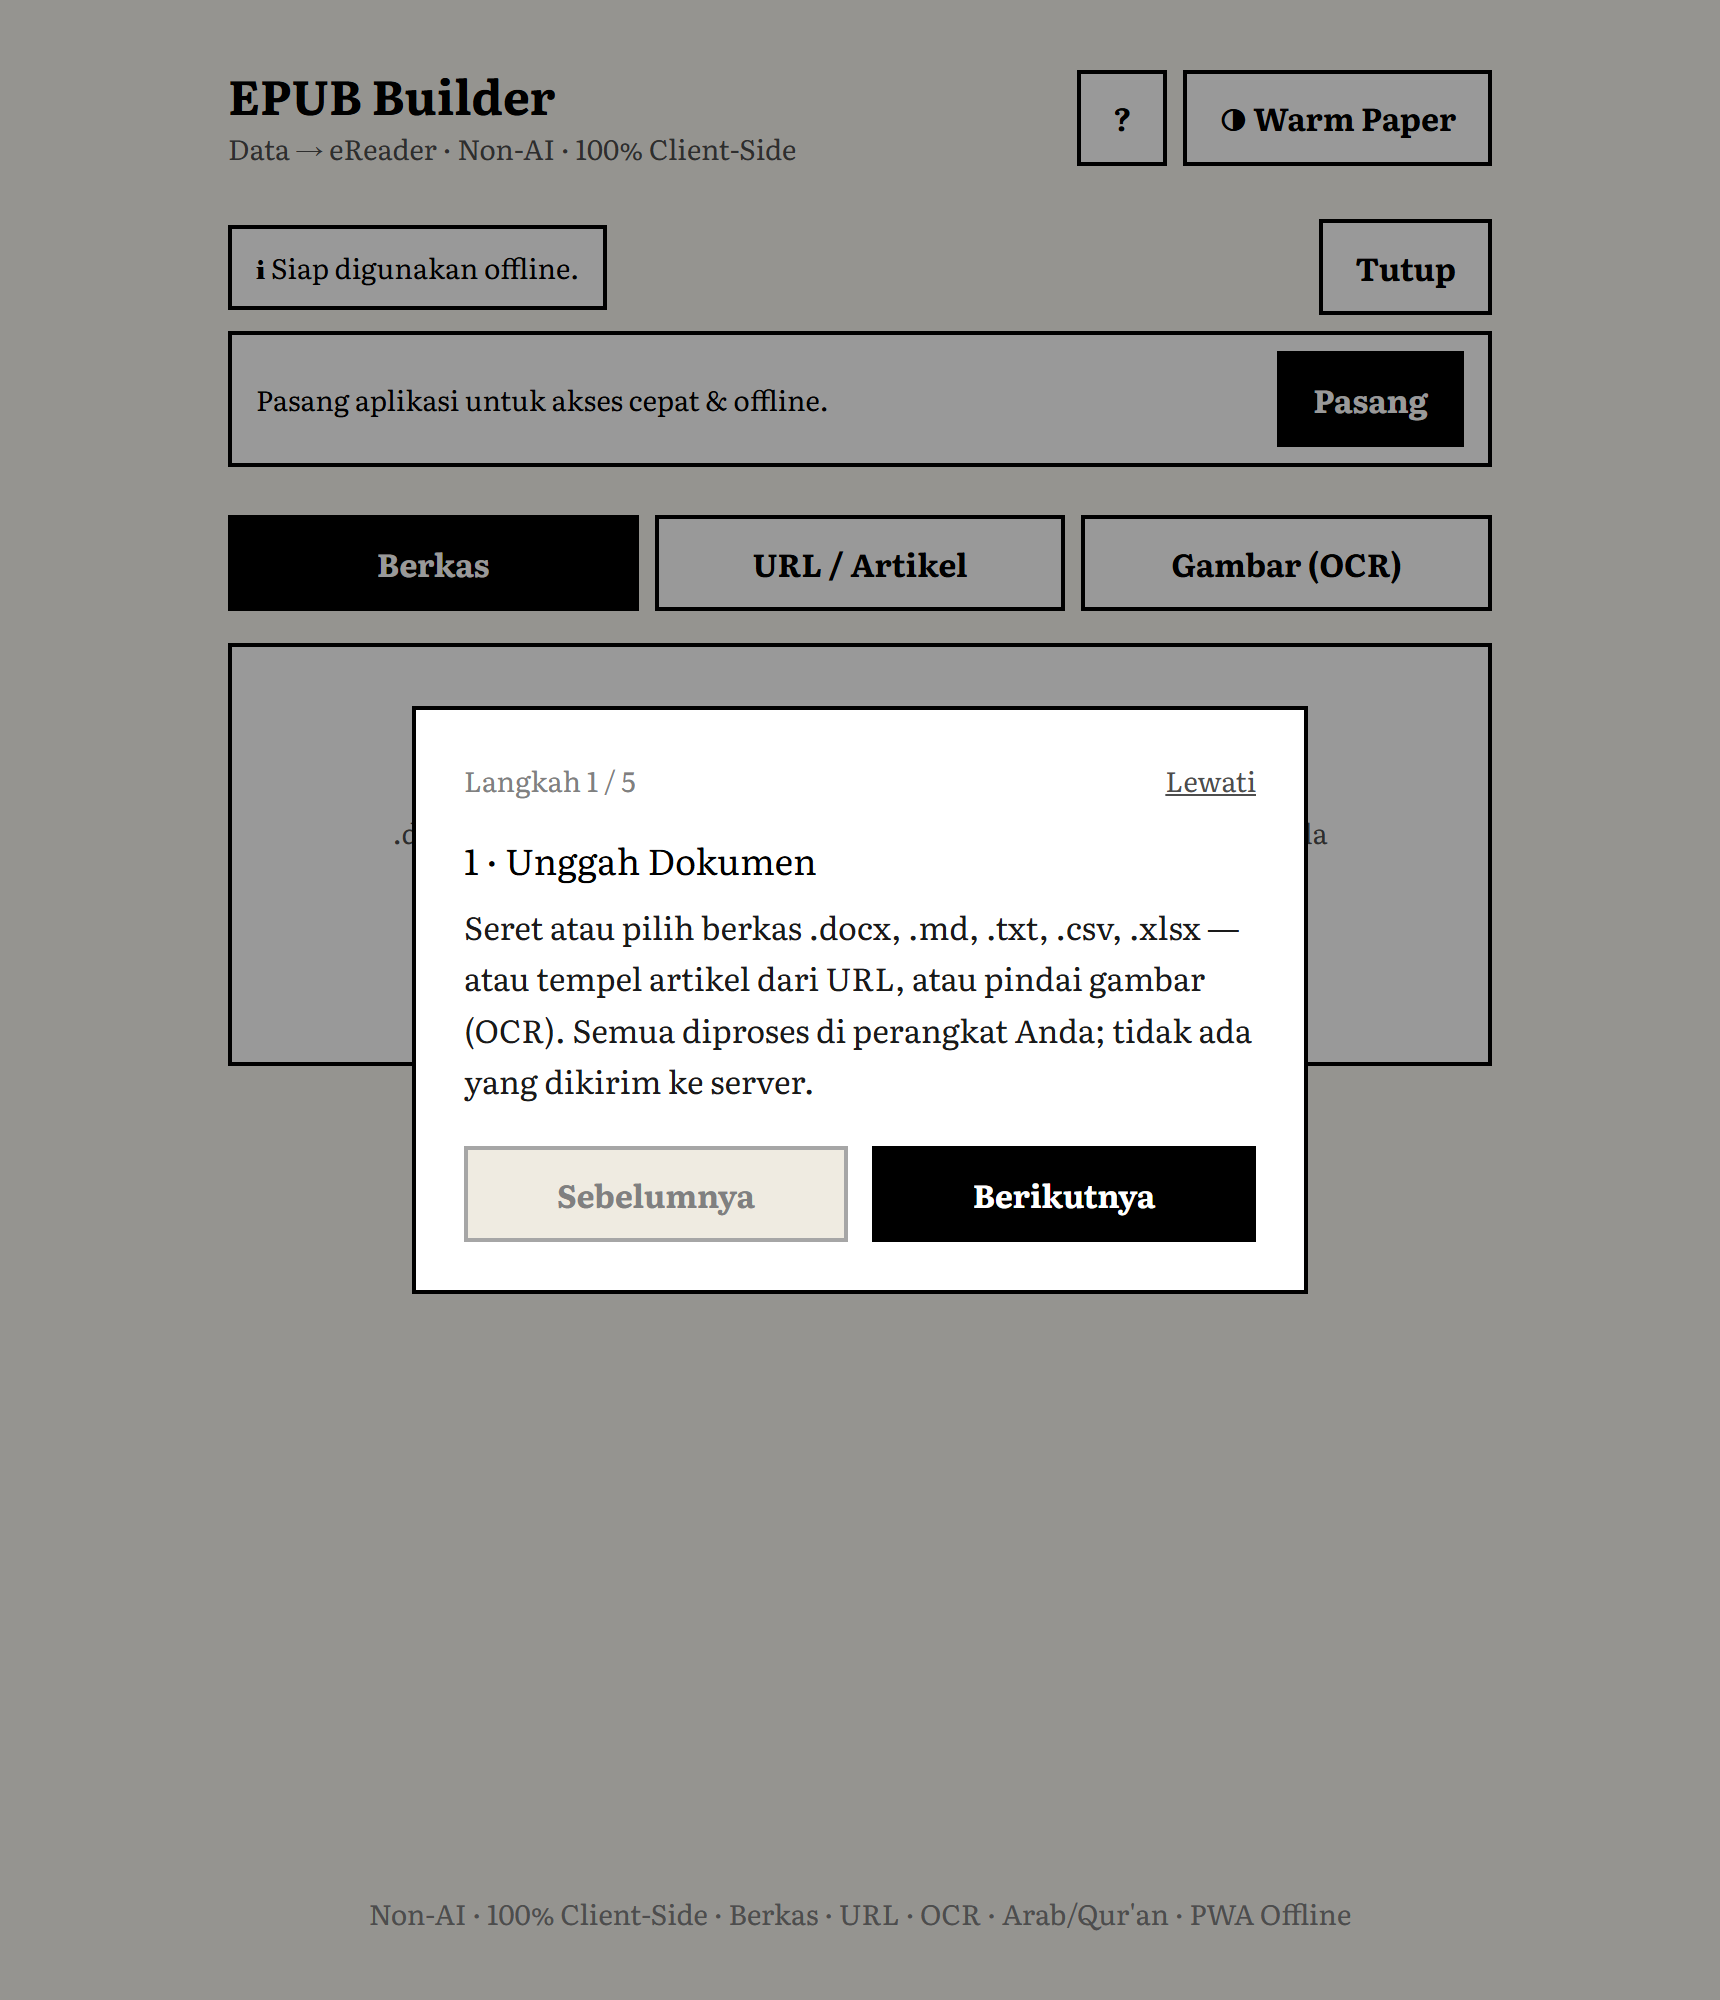
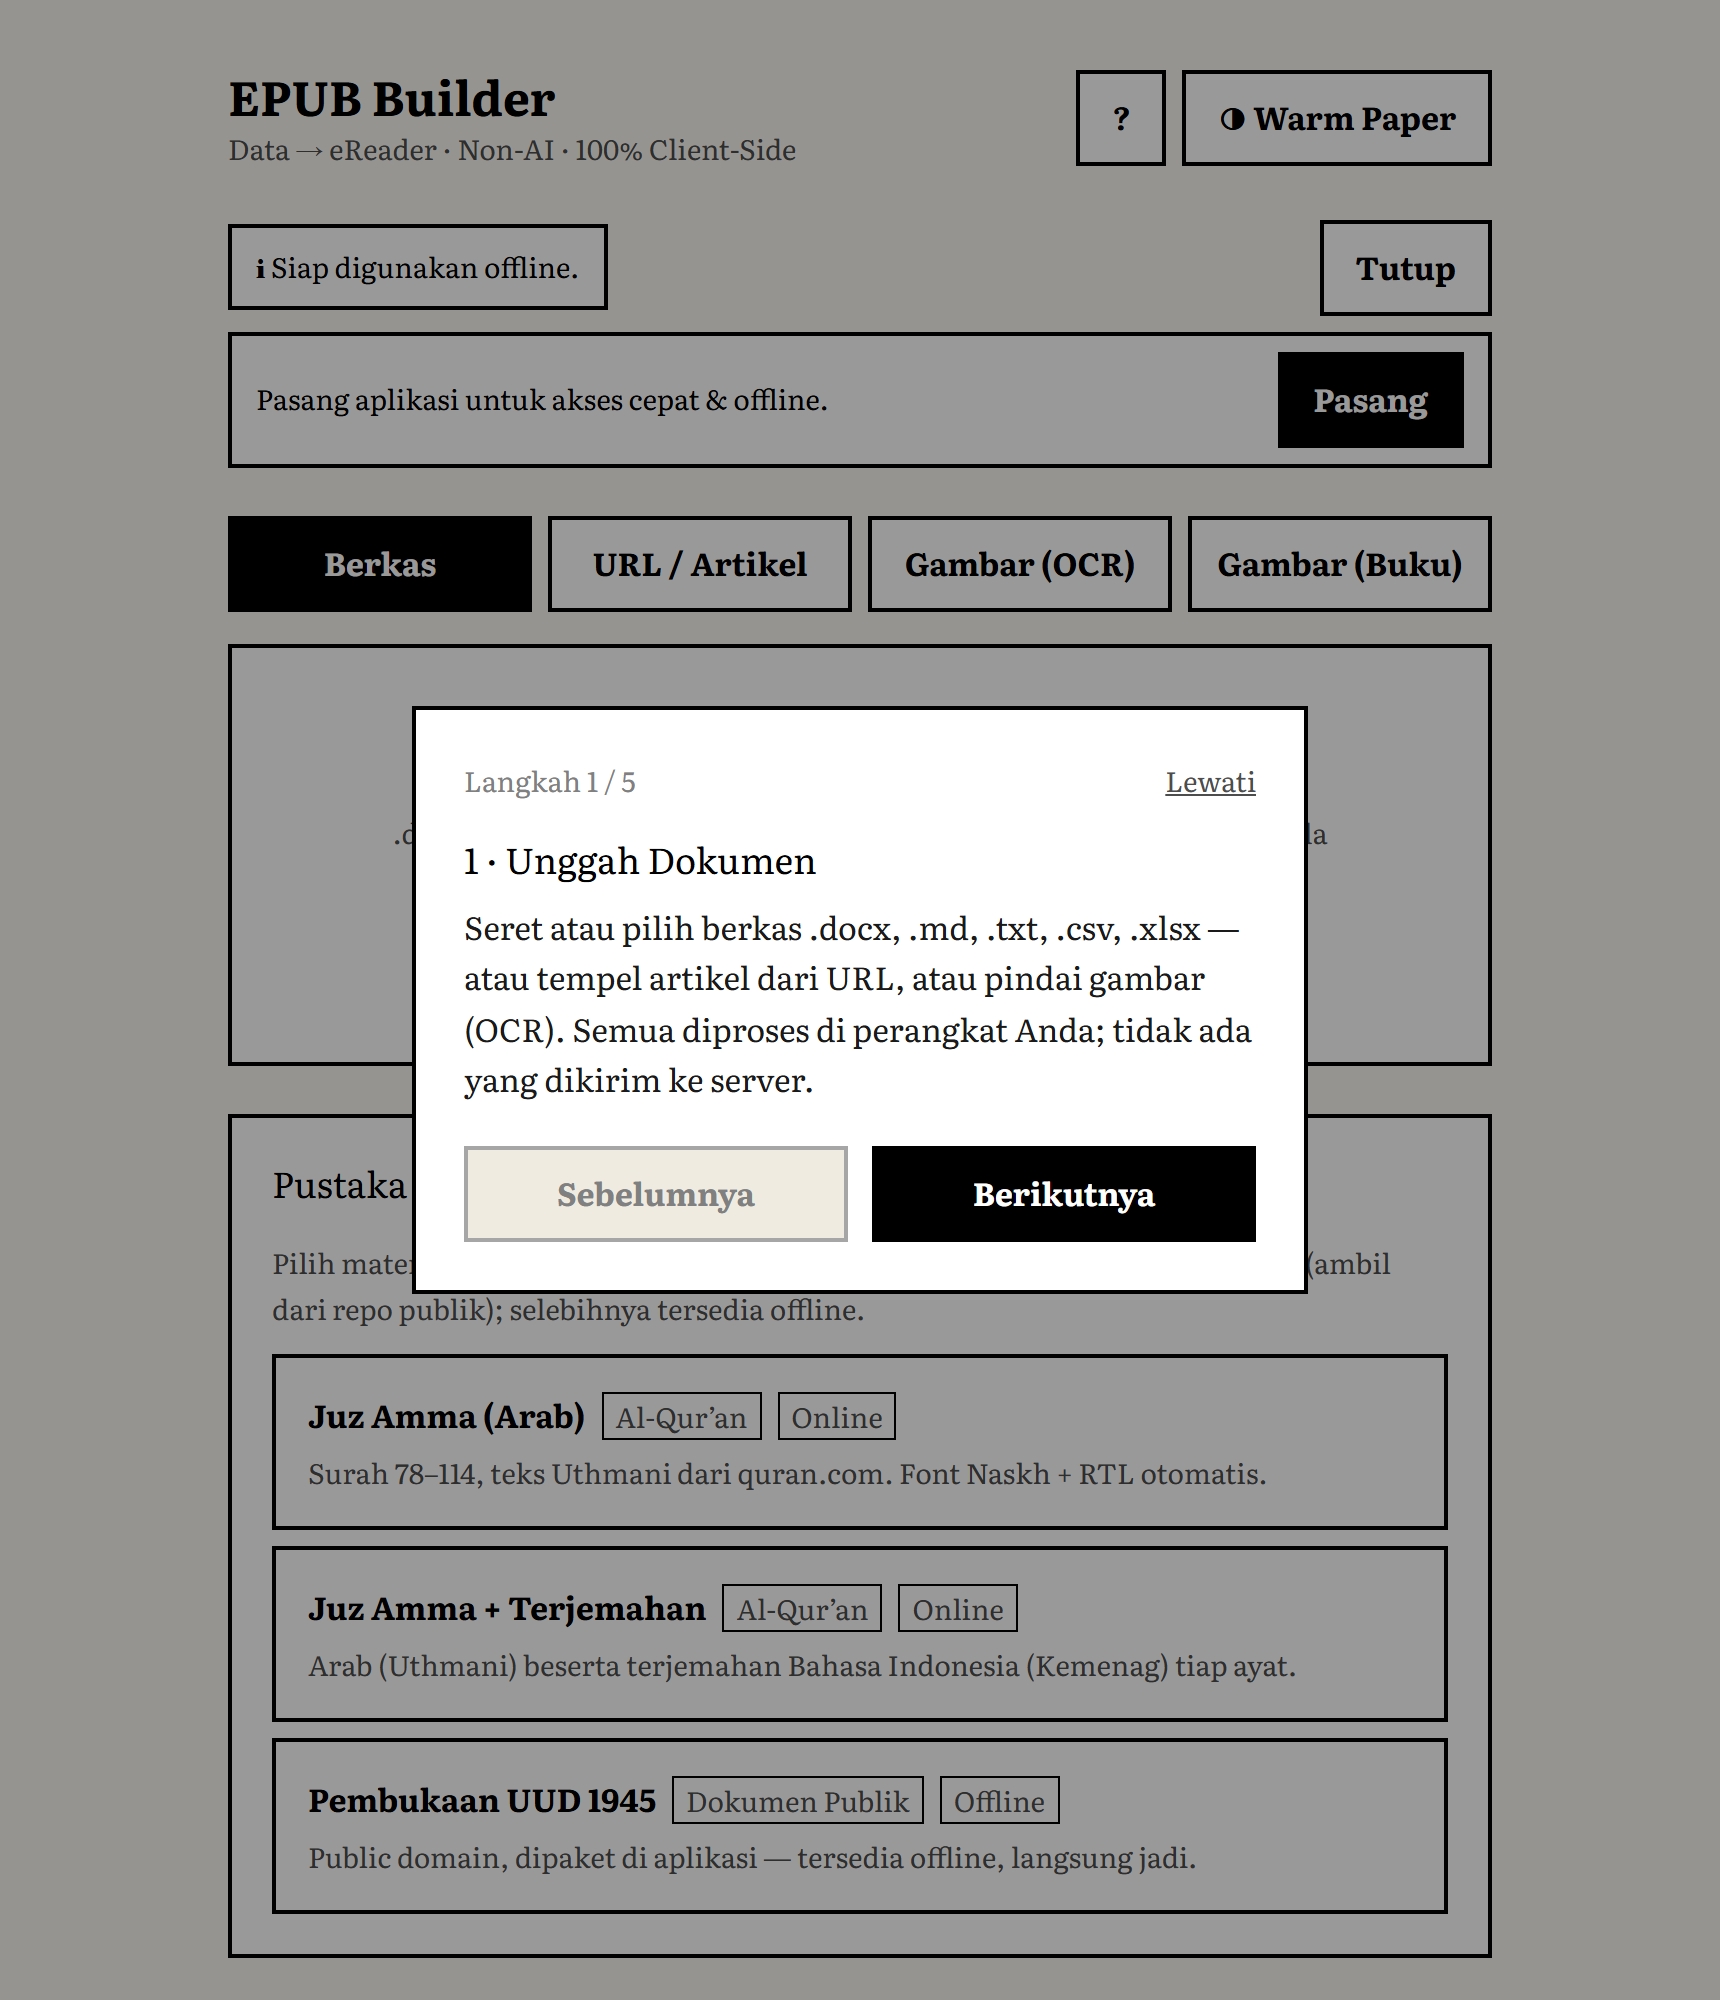
docs: perbarui screenshot README untuk fitur gabungan
Regenerasi 01/02/04 (UI serif + 4 tab masukan + Pustaka Siap-Pakai +
Simulator mode Halaman/page-flip). Tambah 06-dualpane (editor + Live
Simulator berdampingan di tablet/PC). Hapus 03-convert (digantikan hero
dual-pane). Ditangkap dari build produksi via Chrome headless.

diff --git a/README.md b/README.md
@@ -18,16 +18,19 @@ Onyx Boox, Meebook), dengan dukungan penuh skrip **Arab/Qur'an (RTL + font embed
 
 ## Tampilan
 
-Alur konversi lengkap — unggah dokumen, periksa metadata & bab, pratinjau WYSIWYG di
-**Live Simulator** (Kindle/Kobo/Onyx), pilih sampul, lalu bangun EPUB — semua di perangkat:
+Antarmuka **E-Ink serif** dengan **Dual-Pane** di tablet/PC — editor di kiri, **Live Simulator**
+(Kindle/Kobo/Onyx, mode **Gulir** atau **Halaman**/page-flip) menempel di kanan:
 
 <p align="center">
-  <img src="docs/screenshots/03-convert.png" alt="Alur konversi EPUB Builder" width="430">
+  <img src="docs/screenshots/06-dualpane.png" alt="Dual-Pane: editor + Live Simulator" width="820">
 </p>
 
-| Onboarding | Live Simulator | Panel Masukan |
+Di ponsel/eReader tampil satu kolom. Masukan lewat **Berkas / URL / OCR / Gambar (Buku)**, atau
+**Pustaka Siap-Pakai** (Juz Amma via quran.com API, UUD 1945 offline):
+
+| Onboarding | Masukan + Pustaka Siap-Pakai | Live Simulator (page-flip) |
 |:---:|:---:|:---:|
-| ![Onboarding walkthrough](docs/screenshots/01-onboarding.png) | ![Live Simulator E-Ink](docs/screenshots/04-simulator.png) | ![Panel masukan: Berkas / URL / OCR](docs/screenshots/02-input.png) |
+| ![Onboarding walkthrough](docs/screenshots/01-onboarding.png) | ![Panel masukan & Pustaka Siap-Pakai](docs/screenshots/02-input.png) | ![Live Simulator mode Halaman](docs/screenshots/04-simulator.png) |
 
 ## Prinsip Arsitektur
 
